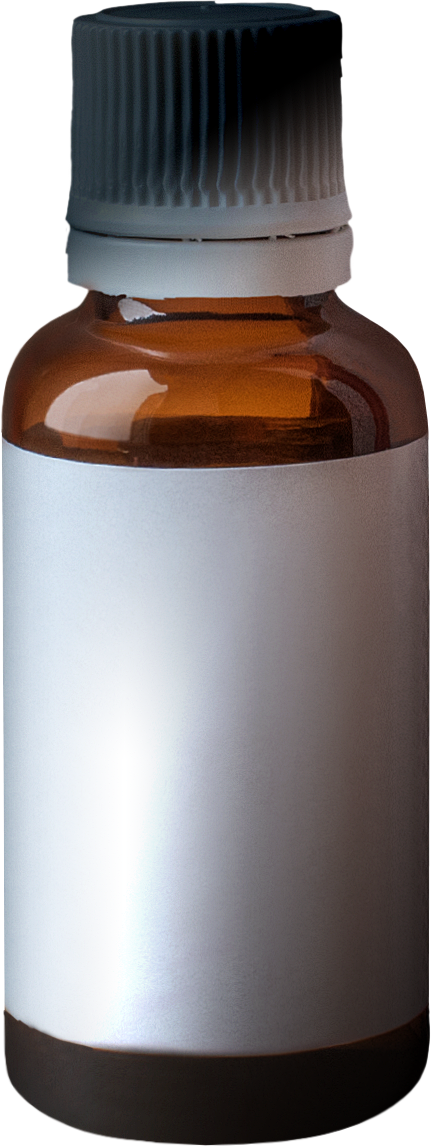
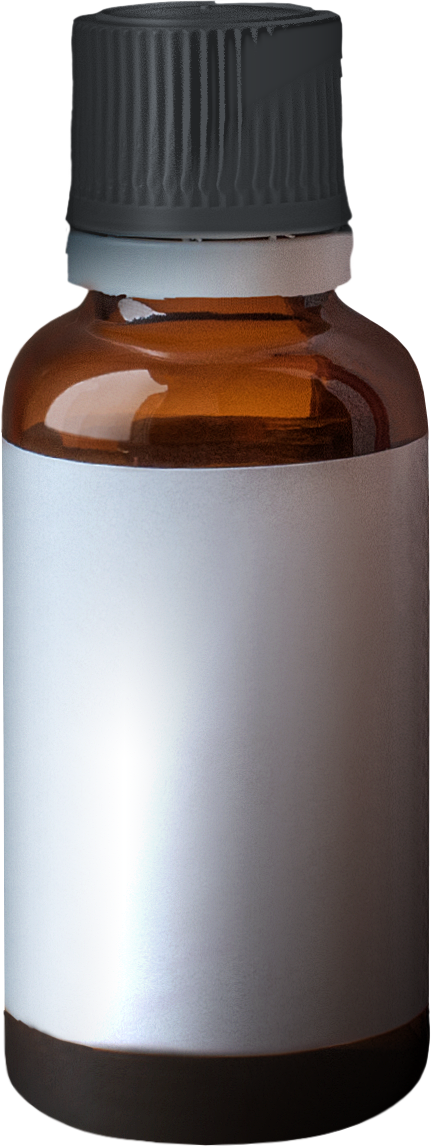
Services: evenly lit bottle cap, and every product sits on its own soft shadow
The Clarion bottle's cap had a dark wedge baked into the photograph; it
is relit as an even charcoal cylinder, ribs kept. Carton ground shadows
were pinned to the bottom of each frame, so tall boxes covered theirs
and short ones floated above it; the shadow now follows each box's
bottom edge and width. The bottle gets the same shadow.

Changed region(s): [[0.1508, 0.0, 0.8144, 0.2136]]

diff --git a/templates/products.html b/templates/products.html
@@ -1,7 +1,7 @@
 <!DOCTYPE html>
 <html lang="en">
 <head>
-{{> head}}<link rel="stylesheet" href="/product-box.css?v=20261007-3" /><link rel="stylesheet" href="/clients-page.css?v=20261007-logos" /><link rel="stylesheet" href="/glass-photos.css" /><link rel="stylesheet" href="/service-families.css?v=20261007-4" />
+{{> head}}<link rel="stylesheet" href="/product-box.css?v=20261008" /><link rel="stylesheet" href="/clients-page.css?v=20261007-logos" /><link rel="stylesheet" href="/glass-photos.css" /><link rel="stylesheet" href="/service-families.css?v=20261008" />
 </head>
 <body class="photo-zoom-page services-page">
 {{> gtm-body}}
@@ -113,6 +113,6 @@
 {{> footer}}
 
   <script src="/script.js"></script>
-  <script src="/product-box-syrups.js"></script><script src="/product-box-food.js"></script><script src="/product-box-neutra.js"></script><script src="/product-labels.js?v=20261007-3"></script><script src="/product-box-injections.js?v=20261007-3"></script><script src="/product-box.js?v=20261007-3"></script><script src="/clients-gallery.js?v=20261007-logos"></script><script src="/glass-photos.js"></script><script src="/finishes.js"></script>
+  <script src="/product-box-syrups.js"></script><script src="/product-box-food.js"></script><script src="/product-box-neutra.js"></script><script src="/product-labels.js?v=20261008"></script><script src="/product-box-injections.js?v=20261008"></script><script src="/product-box.js?v=20261008"></script><script src="/clients-gallery.js?v=20261007-logos"></script><script src="/glass-photos.js"></script><script src="/finishes.js"></script>
 </body>
 </html>

diff --git a/static/product-box.js b/static/product-box.js
@@ -545,6 +545,11 @@
       ? Math.min(1.18, view.clientWidth / 355,
           (view.querySelector('.product-box-stage').clientHeight - 36) / (dimensions.height + dimensions.depth * .4 + (dimensions.hanger ? 44 : dimensions.leaflet ? 180 : 0)))
       : Math.min(1.18, view.clientWidth / 355) * (dimensions.scale || 1);
+    // where the box's lower edge sits in its stage, so the ground shadow can sit right under it
+    const stageH = view.querySelector('.product-box-stage').clientHeight;
+    const boxBottom = Math.round(stageH / 2 + dimensions.height * scale / 2 + (dimensions.leaflet ? 48 : 0));
+    const boxWidth = Math.round((dimensions.width || 280) * scale);
+    if (boxBottom !== view._boxBottom || boxWidth !== view._boxWidth) { view._boxBottom = boxBottom; view._boxWidth = boxWidth; view.style.setProperty('--box-bottom', boxBottom + 'px'); view.style.setProperty('--box-width', boxWidth + 'px'); }
     x += (targetX - x) * blend;
     y += (targetY - y) * blend;
     model.style.transform = (dimensions.leaflet ? 'translateY(48px) ' : '') + 'scale(' + scale + ') rotateX(' + x + 'deg) rotateY(' + y + 'deg) scaleX('+((dimensions.width || 280)/280)+') scaleY('+(dimensions.height/178)+') scaleZ('+(dimensions.depth/32)+')';

diff --git a/static/service-families.css b/static/service-families.css
@@ -41,7 +41,7 @@
 .product-bottle-view { aspect-ratio:1; position:relative; touch-action:pan-y; cursor:grab; }
 .product-bottle-view:focus-visible { outline:3px solid #a02830; outline-offset:-4px; }
 .bottle-stage { position:absolute; inset:20px 0 48px; display:flex; align-items:center; justify-content:center; }
-.bottle-stage::before { content:""; position:absolute; width:50%; height:10%; bottom:0; border-radius:50%; background:radial-gradient(ellipse,#3c2d1e40,transparent 70%); filter:blur(8px); }
+.bottle-stage::before { content:""; position:absolute; width:46%; height:32px; bottom:-14px; border-radius:50%; background:radial-gradient(ellipse,#3c2d1e45, #3c2d1e14 45%,transparent 72%); filter:blur(7px); }
 .bottle-canvas { position:relative; height:100%; width:auto; max-width:85%; object-fit:contain; }
 .product-bottle-view.is-ready .product-box-fallback { display:none; }
 .has-leaflet .box-top { background:#736f68; filter:none; }

diff --git a/static/product-box.css b/static/product-box.css
@@ -18,8 +18,11 @@
 
 /* Keep the carton above its ground shadow and away from the interaction hint. */
 .product-box-stage { bottom:34px; perspective:1000px; }
+/* The ground shadow follows its box: product-box.js sets --box-bottom (the box's lower edge in the stage) and
+   --box-width, so every carton, tall or short, sits on the same soft shadow. */
 .product-box-stage::before {
-  content:""; position:absolute; width:62%; height:16%; left:19%; bottom:5%;
+  content:""; position:absolute; left:50%; top:calc(var(--box-bottom, 88%) - 16px); bottom:auto;
+  width:calc(var(--box-width, 160px) * 1.25); height:32px; margin-left:calc(var(--box-width, 160px) * -.625);
   border-radius:50%; background:radial-gradient(ellipse,#3c2d1e45, #3c2d1e14 45%,transparent 72%);
   filter:blur(7px);
   transform:translateX(var(--shadow-x,5px)) scaleX(var(--shadow-scale,.94));

diff --git a/static/product-labels.js b/static/product-labels.js
@@ -15,7 +15,7 @@ window.productBoxLabelBoxes = {
  let ready=false,visible=false,paused=false,hover=false,drag=null,angle=0,target=0,time=0,last=0,frame=0,manualUntil=0;
  const load=src=>new Promise((resolve,reject)=>{const i=new Image();i.onload=()=>resolve(i);i.onerror=reject;i.src=src;});
  let bottle,label;
- Promise.all([load('/images/bottle-mockup/amber-bottle.png'),load('/images/bottle-mockup/clarion-sticker.jpg')]).then(([b,sticker])=>{
+ Promise.all([load('/images/bottle-mockup/amber-bottle.png?v=20261008'),load('/images/bottle-mockup/clarion-sticker.jpg')]).then(([b,sticker])=>{
   bottle=b;
   // Rectify the photographed sticker at runtime, preserving its original lettering.
   const source=document.createElement('canvas');source.width=sticker.width;source.height=sticker.height;

diff --git a/templates/partials/product-bottle.html b/templates/partials/product-bottle.html
@@ -1,4 +1,4 @@
 <div class="product-bottle-view" tabindex="0" role="group" aria-label="Interactive Clarion labelled bottle. Move your mouse, drag, or use arrow keys to turn it.">
   <div class="bottle-stage"><canvas class="bottle-canvas" width="431" height="1147" aria-hidden="true"></canvas></div>
-  <img class="product-box-fallback" src="/images/bottle-mockup/amber-bottle.png" alt="Amber medicine bottle" loading="lazy" />
+  <img class="product-box-fallback" src="/images/bottle-mockup/amber-bottle.png?v=20261008" alt="Amber medicine bottle" loading="lazy" />
 </div>
